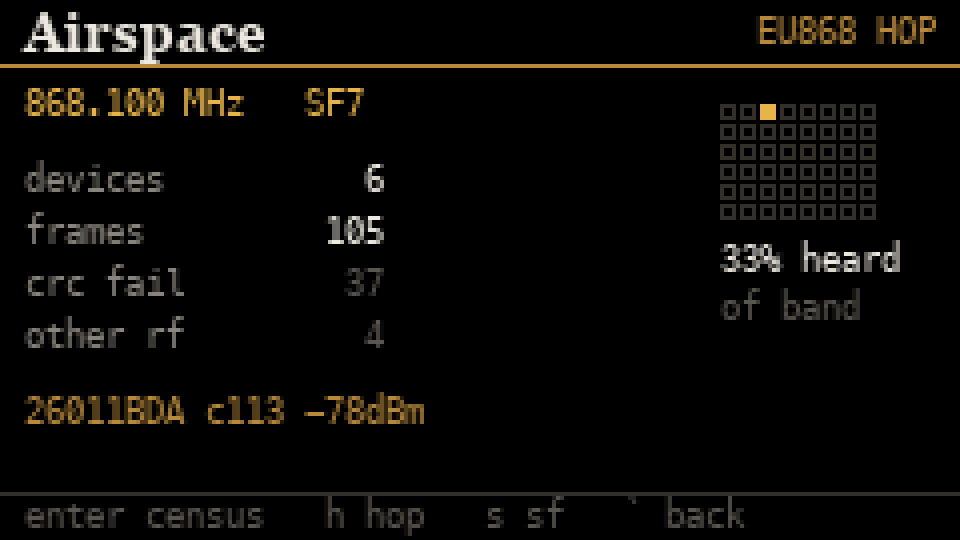
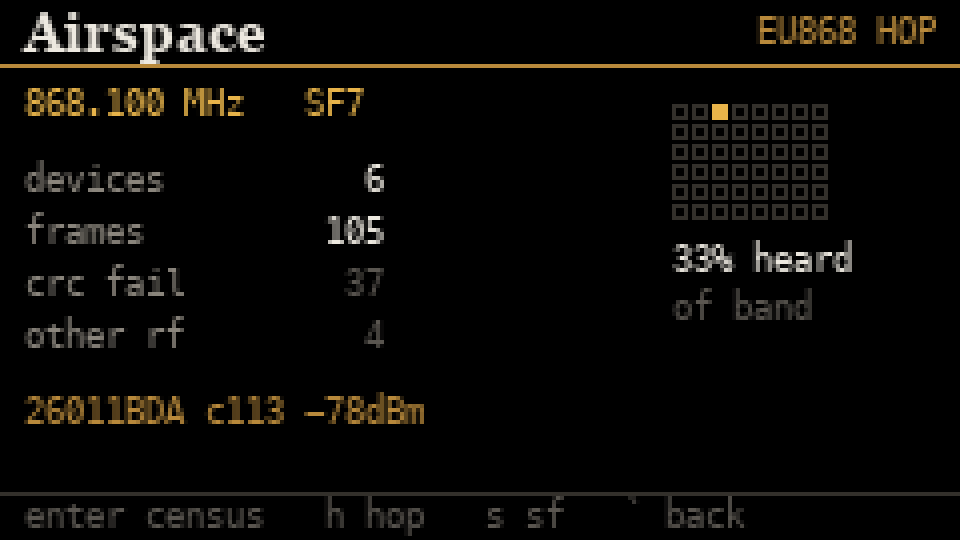
Sync mockup grid position with the firmware constant

Changed region(s): [[0.6875, 0.1778, 0.9375, 0.4148], [0.6875, 0.4444, 0.9375, 0.5037], [0.6875, 0.5333, 0.9062, 0.5926]]

diff --git a/tools/render_mockups.py b/tools/render_mockups.py
@@ -56,7 +56,7 @@ HEADER_H = 16
 FOOTER_H = 12
 BODY_TOP = 21
 CENSUS_ROW_H = 14
-GRID_X, GRID_Y = 180, 26
+GRID_X, GRID_Y = 168, 26  # keep in step with kGridX in src/modules/airspace.cpp
 
 FONT_DIRS = [
     "/System/Library/Fonts/Supplemental/",
